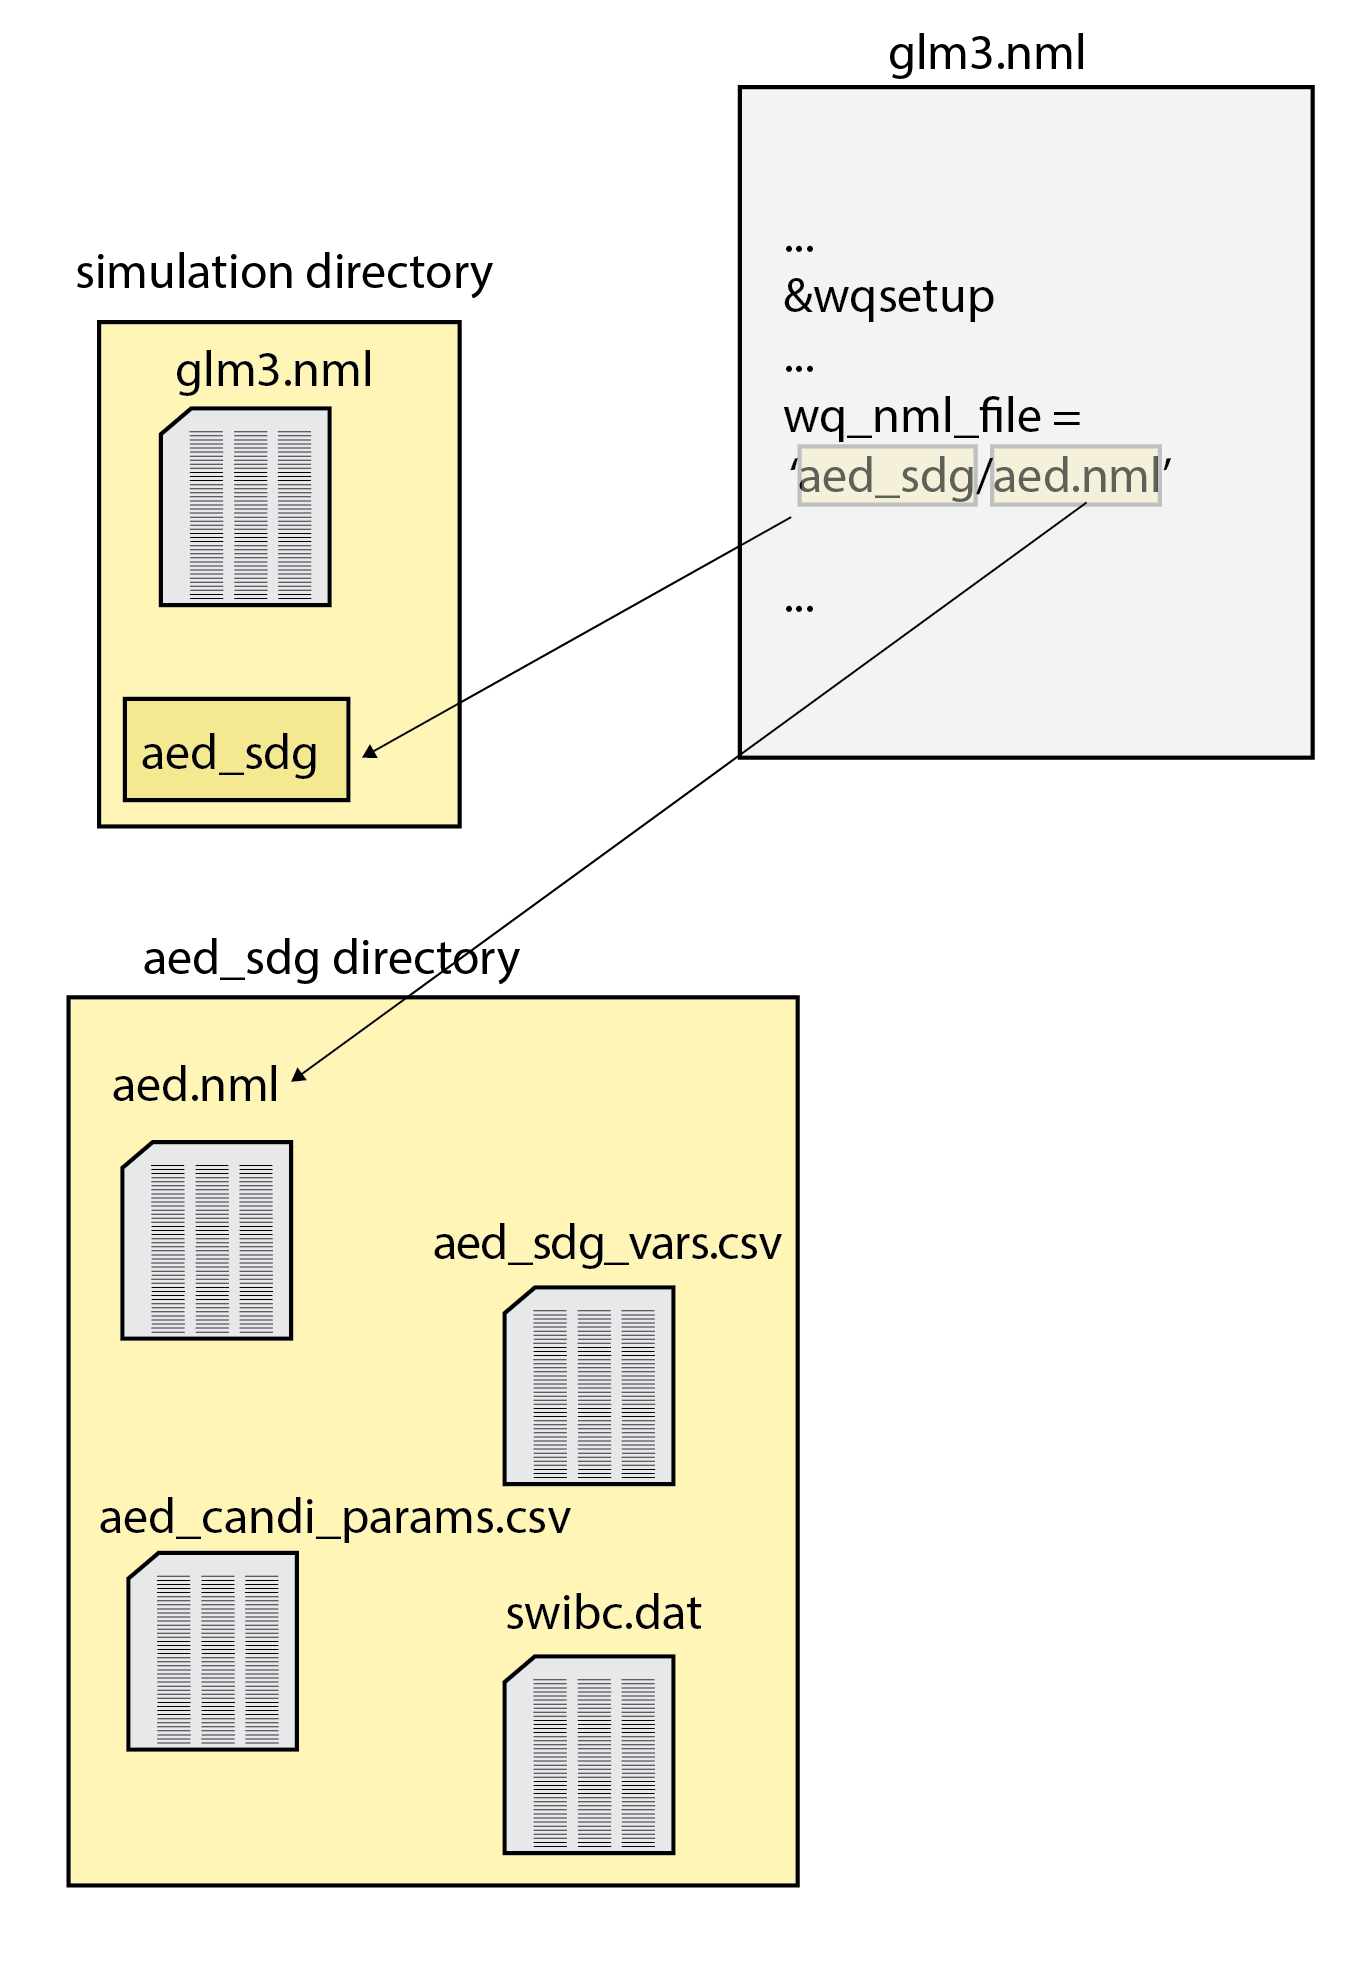
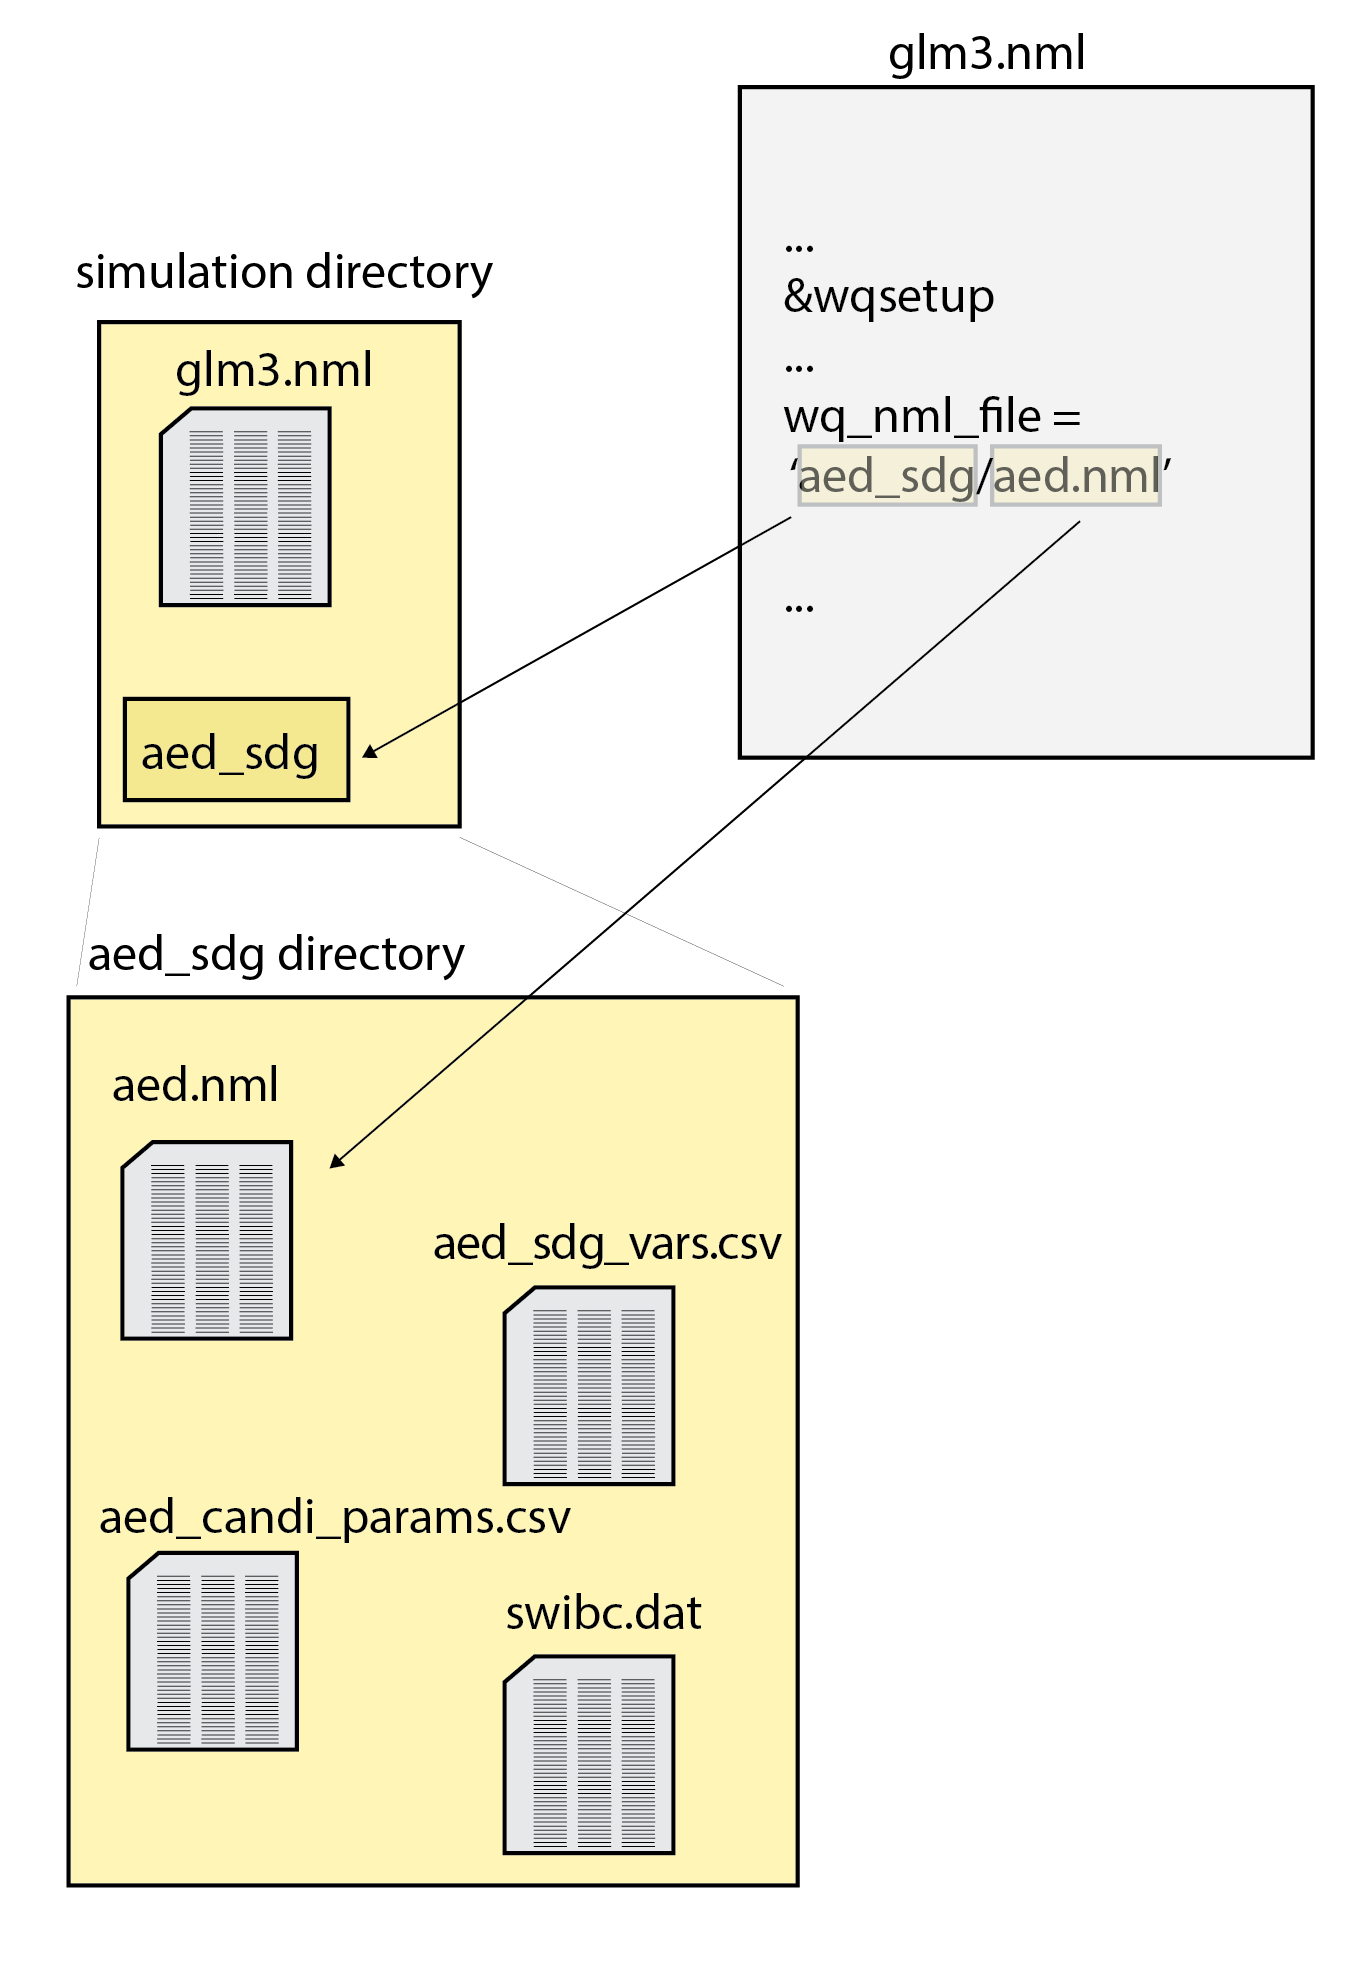
Results folder image

Changed region(s): [[0.0622, 0.4659, 0.3731, 0.4969], [0.715, 0.2795, 0.7461, 0.3106]]

diff --git a/1_simple_example/Readme.md b/1_simple_example/Readme.md
@@ -42,6 +42,13 @@ The 'aed.nml' contains a section that sets the parameters for the sediment model
 
 Using the sediment model will mostly involve changing settings in these files. To explore the files, use the program Visual Studio Code or some combination of file explorer and a text editor. Two projects are created for you in the simluation folder: 'candi-examples_setup' for the setup (input parameters) and 'candi-examples_results' for the results (above all, plotting). 
 
+Once the model has been run, GLM will write its outputs to a netcdf file in the 'outputs' folder. The sediment model writes its outputs to text files in the 'results/candi_aed' directory. Each set of results is grouped in a folder for each zone that is simulated (00001, 00002 etc.). The state variables are text files as '.sed' files. Any extra files beyond state variables are written in a subdirectory within the zone-specific folder named 'Extras'.
+
+<p align="center">
+<img src = "FileStructure-04.png" width=50%>
+</p>
+
+
 ## The sediment model
 
 A full description of the sediment model is given here:
